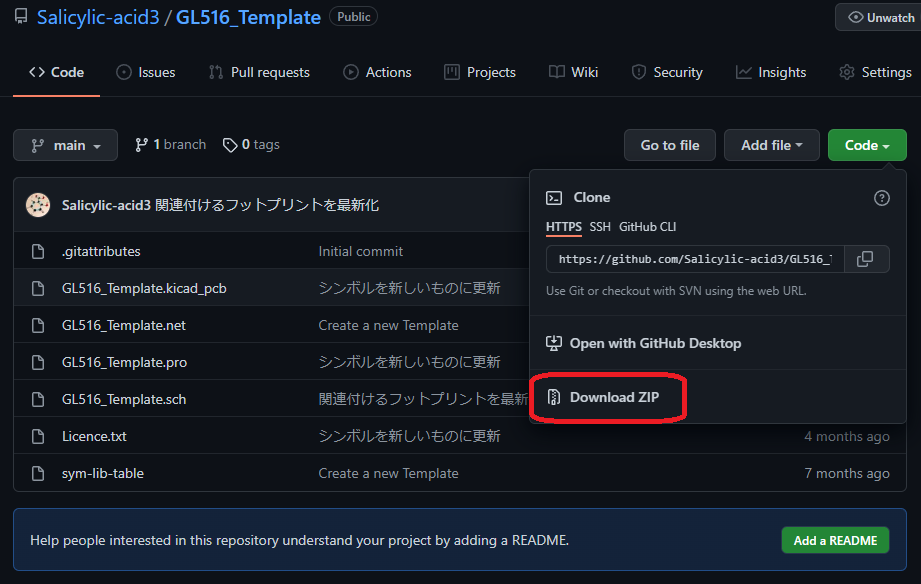
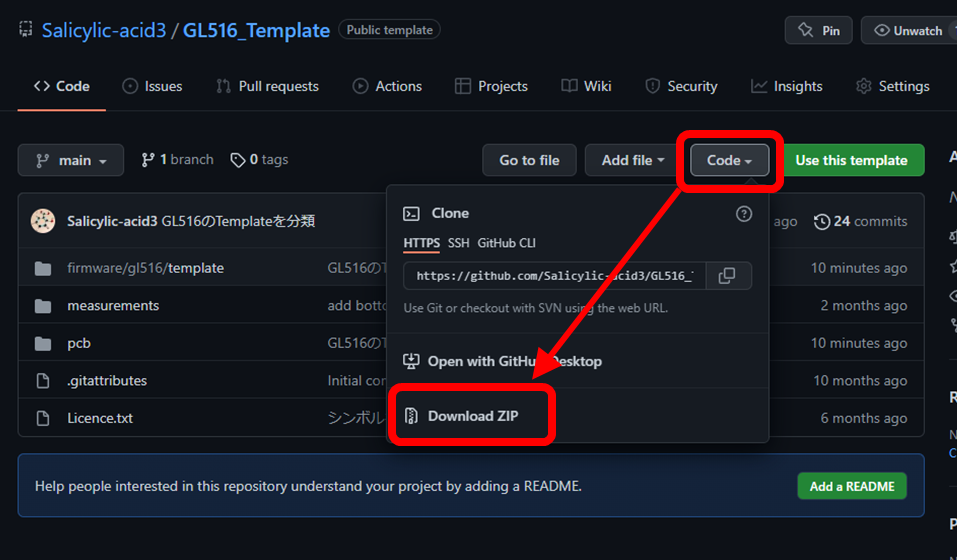
GL516_Templateの整理に追従

diff --git a/books/gl516_design_guide/2.build_environment.md b/books/gl516_design_guide/2.build_environment.md
@@ -133,7 +133,7 @@ https://github.com/Salicylic-acid3/GL516_Template
 
 # ６．GL516のテンプレートファイルをリネームする
 
-- ダウンロードしたテンプレートファイルを作りたいキーボードの名前にリネームします。
+- ダウンロードしたテンプレートのpcbフォルダ以下のファイルを作りたいキーボードの名前にリネームします。
 ![](/images/gl516design/2-18_template-2.png)
 :::message
 リネームするファイルの拡張子は以下の4種です。
